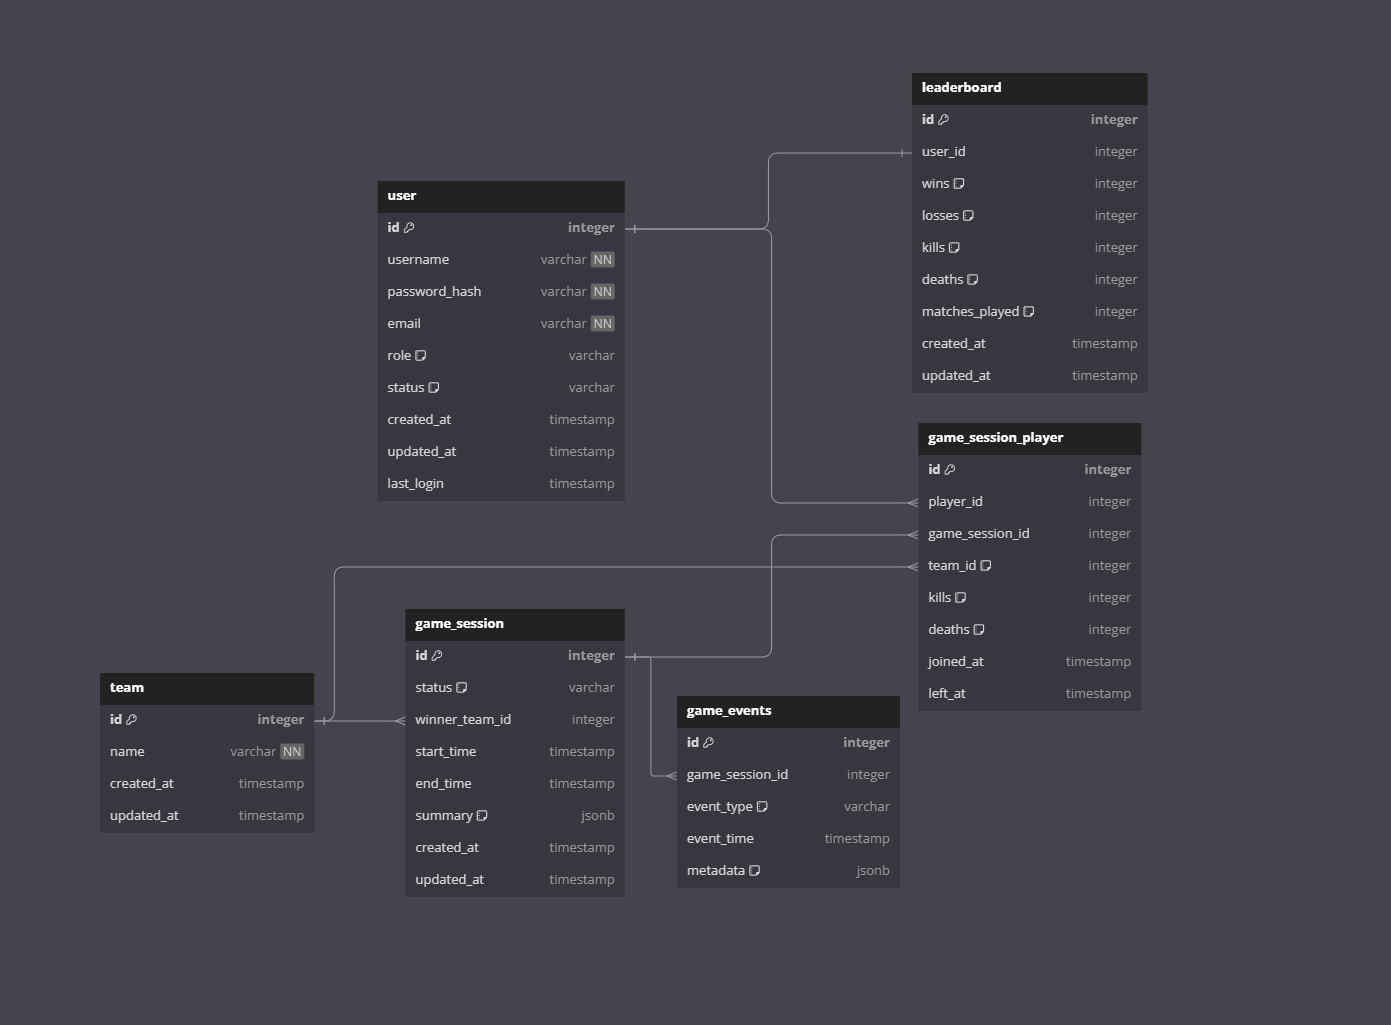
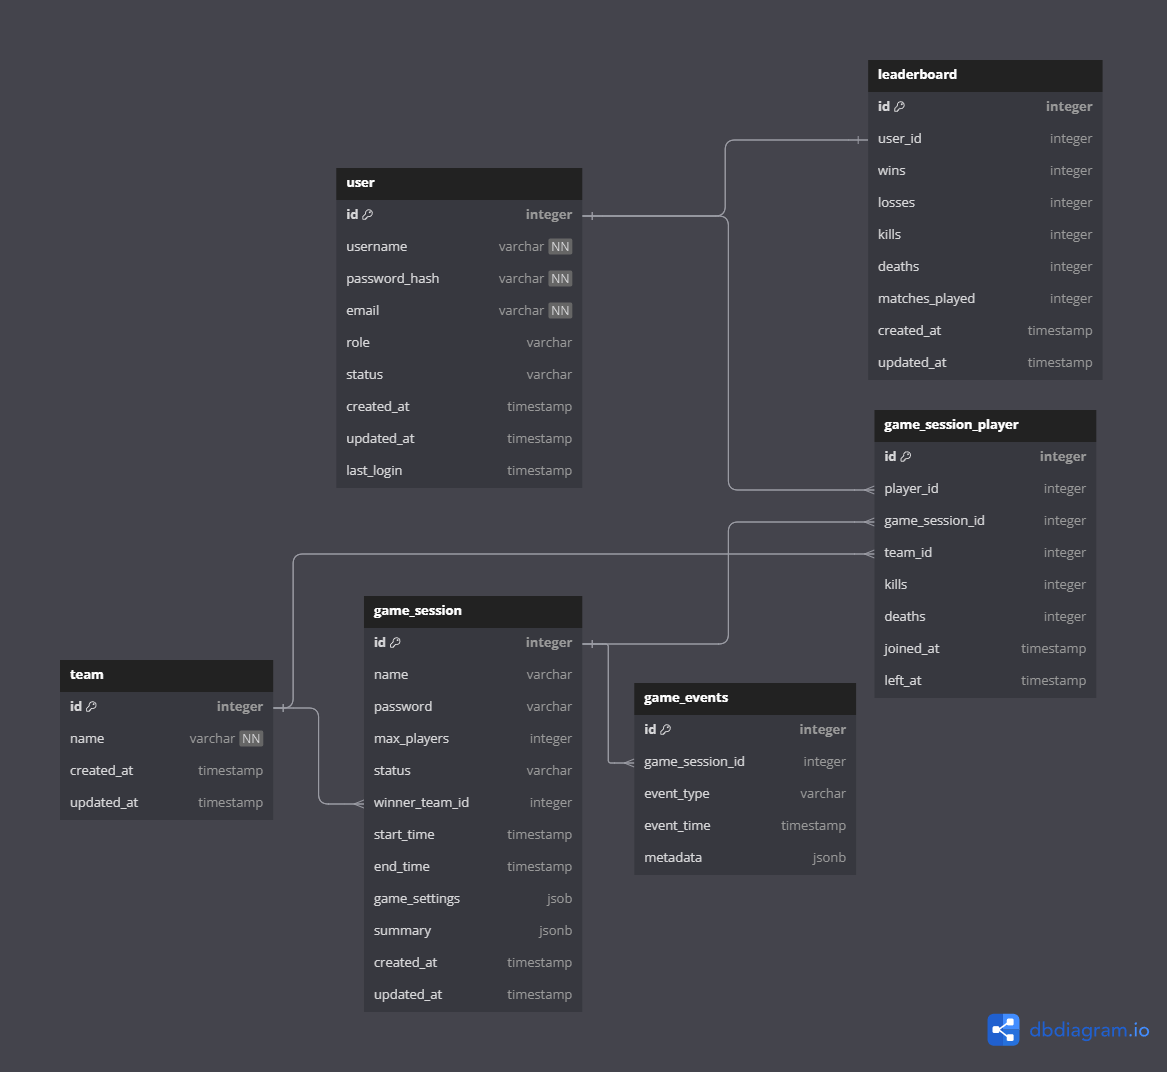
Added model classes

diff --git a/tanks_backend/src/main/java/hr/antitalent/tanks_backend/model/GameSession.java b/tanks_backend/src/main/java/hr/antitalent/tanks_backend/model/GameSession.java
@@ -1,0 +1,51 @@
+package hr.antitalent.tanks_backend.model;
+
+import hr.antitalent.tanks_backend.enums.GameSessionStatus;
+import jakarta.persistence.*;
+import lombok.*;
+
+import java.time.LocalDateTime;
+import java.util.List;
+
+@Entity
+@Table(name = "game_session", schema = "game")
+@Getter
+@Setter
+@NoArgsConstructor
+@AllArgsConstructor
+@Builder
+public class GameSession {
+    @Id
+    @GeneratedValue(strategy = GenerationType.IDENTITY)
+    private Integer id;
+
+    @Column(unique = true, nullable = false)
+    private String name;
+
+    private String password;
+
+    @Enumerated(EnumType.STRING)
+    private GameSessionStatus status = GameSessionStatus.WAITING;
+
+    private LocalDateTime startTime;
+    private LocalDateTime endTime;
+
+    @ManyToOne
+    @JoinColumn(name = "winner_team_id", referencedColumnName = "id")
+    private Team winnerTeam;
+
+    @Column(columnDefinition = "jsonb")
+    private String gameSettings;
+
+    @Column(columnDefinition = "jsonb")
+    private String summary;
+
+    private LocalDateTime createdAt;
+    private LocalDateTime updatedAt;
+
+    @OneToMany(mappedBy = "gameSession", cascade = CascadeType.ALL, fetch = FetchType.EAGER)
+    private List<GameSessionPlayer> players;
+
+    @OneToMany(mappedBy = "gameSession", cascade = CascadeType.ALL, fetch = FetchType.LAZY)
+    private List<GameEvent> events;
+}

diff --git a/tanks_backend/src/main/java/hr/antitalent/tanks_backend/model/User.java b/tanks_backend/src/main/java/hr/antitalent/tanks_backend/model/User.java
@@ -1,0 +1,45 @@
+package hr.antitalent.tanks_backend.model;
+
+import hr.antitalent.tanks_backend.enums.UserRole;
+import hr.antitalent.tanks_backend.enums.UserStatus;
+import jakarta.persistence.*;
+import lombok.*;
+
+import java.time.LocalDateTime;
+
+@Entity
+@Table(name = "user", schema = "game")
+@Getter
+@Setter
+@NoArgsConstructor
+@AllArgsConstructor
+@Builder
+public class User {
+    @Id
+    @GeneratedValue(strategy = GenerationType.IDENTITY)
+    private Integer id;
+
+    @Column(unique = true, nullable = false)
+    private String username;
+
+    @Column(nullable = false)
+    private String passwordHash;
+
+    @Column(unique = true, nullable = false)
+    private String email;
+
+    @Column(nullable = false)
+    @Enumerated(EnumType.STRING)
+    private UserRole role = UserRole.PLAYER;
+
+    @Column(nullable = false)
+    @Enumerated(EnumType.STRING)
+    private UserStatus status = UserStatus.ACTIVE;
+
+    private LocalDateTime createdAt;
+    private LocalDateTime updatedAt;
+    private LocalDateTime lastLogin;
+
+    @OneToOne(mappedBy = "user", cascade = CascadeType.ALL, fetch = FetchType.LAZY)
+    private Leaderboard leaderboard;
+}

diff --git a/tanks_backend/src/main/java/hr/antitalent/tanks_backend/model/GameSessionPlayer.java b/tanks_backend/src/main/java/hr/antitalent/tanks_backend/model/GameSessionPlayer.java
@@ -1,0 +1,36 @@
+package hr.antitalent.tanks_backend.model;
+
+import jakarta.persistence.*;
+import lombok.*;
+
+import java.time.LocalDateTime;
+
+@Entity
+@Table(name = "game_session_player", schema = "game")
+@Getter
+@Setter
+@NoArgsConstructor
+@AllArgsConstructor
+@Builder
+public class GameSessionPlayer {
+    @Id
+    @GeneratedValue(strategy = GenerationType.IDENTITY)
+    private Integer id;
+
+    @ManyToOne
+    @JoinColumn(name = "player_id", referencedColumnName = "id")
+    private User player;
+
+    @ManyToOne
+    @JoinColumn(name = "game_session_id", referencedColumnName = "id")
+    private GameSession gameSession;
+
+    @ManyToOne
+    @JoinColumn(name = "team_id", referencedColumnName = "id")
+    private Team team;
+
+    private Integer kills = 0;
+    private Integer deaths = 0;
+    private LocalDateTime joinedAt;
+    private LocalDateTime leftAt;
+}

diff --git a/tanks_backend/src/main/java/hr/antitalent/tanks_backend/model/GameEvent.java b/tanks_backend/src/main/java/hr/antitalent/tanks_backend/model/GameEvent.java
@@ -1,0 +1,32 @@
+package hr.antitalent.tanks_backend.model;
+
+import hr.antitalent.tanks_backend.enums.GameEventType;
+import jakarta.persistence.*;
+import lombok.*;
+
+import java.time.LocalDateTime;
+
+@Entity
+@Table(name = "game_events", schema = "game")
+@Getter
+@Setter
+@NoArgsConstructor
+@AllArgsConstructor
+@Builder
+public class GameEvent {
+    @Id
+    @GeneratedValue(strategy = GenerationType.IDENTITY)
+    private Integer id;
+
+    @ManyToOne
+    @JoinColumn(name = "game_session_id", referencedColumnName = "id")
+    private GameSession gameSession;
+
+    @Enumerated(EnumType.STRING)
+    private GameEventType eventType;
+
+    private LocalDateTime eventTime;
+
+    @Column(columnDefinition = "jsonb")
+    private String summary;
+}

diff --git a/tanks_backend/src/main/java/hr/antitalent/tanks_backend/model/Leaderboard.java b/tanks_backend/src/main/java/hr/antitalent/tanks_backend/model/Leaderboard.java
@@ -1,0 +1,32 @@
+package hr.antitalent.tanks_backend.model;
+
+import jakarta.persistence.*;
+import lombok.*;
+
+import java.time.LocalDateTime;
+
+@Entity
+@Table(name = "leaderboard", schema = "game")
+@Getter
+@Setter
+@NoArgsConstructor
+@AllArgsConstructor
+@Builder
+public class Leaderboard {
+    @Id
+    @GeneratedValue(strategy = GenerationType.IDENTITY)
+    private Integer id;
+
+    @OneToOne
+    @JoinColumn(name = "user_id", referencedColumnName = "id")
+    private User user;
+
+    private Integer wins = 0;
+    private Integer losses = 0;
+    private Integer kills = 0;
+    private Integer deaths = 0;
+    private Integer matchesPlayed = 0;
+
+    private LocalDateTime createdAt;
+    private LocalDateTime updatedAt;
+}

diff --git a/tanks_backend/src/main/java/hr/antitalent/tanks_backend/model/Team.java b/tanks_backend/src/main/java/hr/antitalent/tanks_backend/model/Team.java
@@ -1,0 +1,25 @@
+package hr.antitalent.tanks_backend.model;
+
+import jakarta.persistence.*;
+import lombok.*;
+
+import java.time.LocalDateTime;
+
+@Entity
+@Table(name = "team", schema = "game")
+@Getter
+@Setter
+@NoArgsConstructor
+@AllArgsConstructor
+@Builder
+public class Team {
+    @Id
+    @GeneratedValue(strategy = GenerationType.IDENTITY)
+    private Integer id;
+
+    @Column(unique = true, nullable = false)
+    private String name;
+
+    private LocalDateTime createdAt;
+    private LocalDateTime updatedAt;
+}

diff --git a/tanks_backend/src/main/java/hr/antitalent/tanks_backend/enums/GameEventType.java b/tanks_backend/src/main/java/hr/antitalent/tanks_backend/enums/GameEventType.java
@@ -1,0 +1,10 @@
+package hr.antitalent.tanks_backend.enums;
+
+public enum GameEventType {
+    KILL,
+    DEATH,
+    WIN,
+    LOSE,
+    JOIN,
+    LEAVE
+}

diff --git a/tanks_backend/src/main/java/hr/antitalent/tanks_backend/enums/GameSessionStatus.java b/tanks_backend/src/main/java/hr/antitalent/tanks_backend/enums/GameSessionStatus.java
@@ -1,0 +1,7 @@
+package hr.antitalent.tanks_backend.enums;
+
+public enum GameSessionStatus {
+    WAITING,
+    IN_PROGRESS,
+    FINISHED
+}

diff --git a/tanks_backend/src/main/java/hr/antitalent/tanks_backend/enums/UserStatus.java b/tanks_backend/src/main/java/hr/antitalent/tanks_backend/enums/UserStatus.java
@@ -1,0 +1,7 @@
+package hr.antitalent.tanks_backend.enums;
+
+public enum UserStatus {
+    ACTIVE,
+    BANNED,
+    INACTIVE
+}

diff --git a/tanks_backend/src/main/java/hr/antitalent/tanks_backend/enums/UserRole.java b/tanks_backend/src/main/java/hr/antitalent/tanks_backend/enums/UserRole.java
@@ -1,0 +1,6 @@
+package hr.antitalent.tanks_backend.enums;
+
+public enum UserRole {
+    PLAYER,
+    ADMIN
+}
